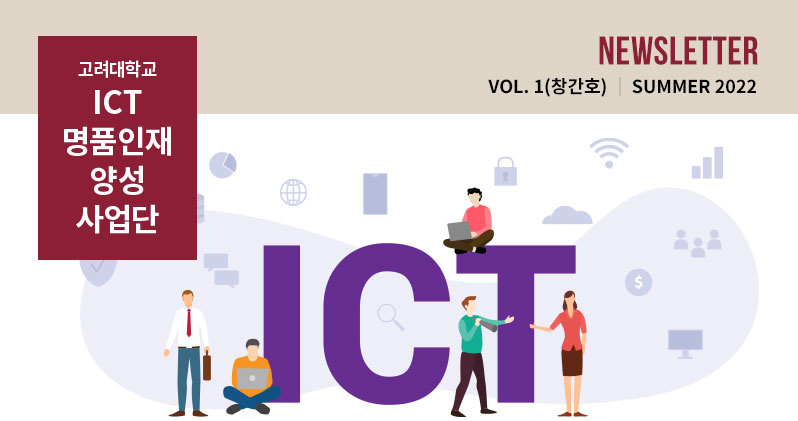
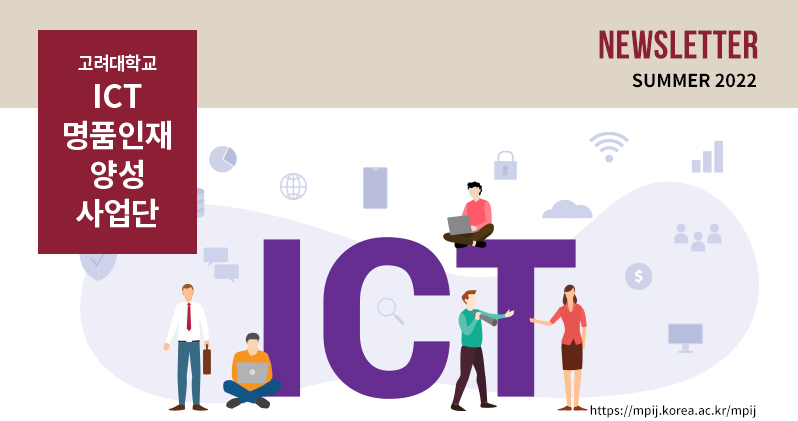
update

diff --git a/resources/ICT_NL_Final3.html b/resources/ICT_NL_Final3.html
@@ -8,7 +8,7 @@
 	<table background="https://media.korea.ac.kr/resources/images/back.gif" width="800px" height="100%" border="0" cellspacing="0" cellpadding="0" align="center" style="background-color: #ffffff;">
   <tbody>
     <tr>
-      <td colspan="3" align="center"><img src="https://media.korea.ac.kr/resources/images/ict_n1_header.jpg" width="798" height="421" alt=""></td>
+      <td colspan="3" align="center"><a href="https://mpij.korea.ac.kr/mpij/index.do" target="_blank"><img src="https://media.korea.ac.kr/resources/images/ict_n1_header.jpg" width="798" height="421" alt=""></a></td>
     </tr>
     <tr>
       <td rowspan="23" width="40px" > </td>
